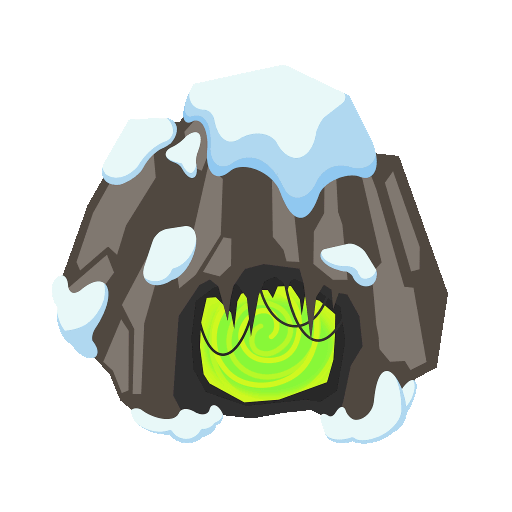
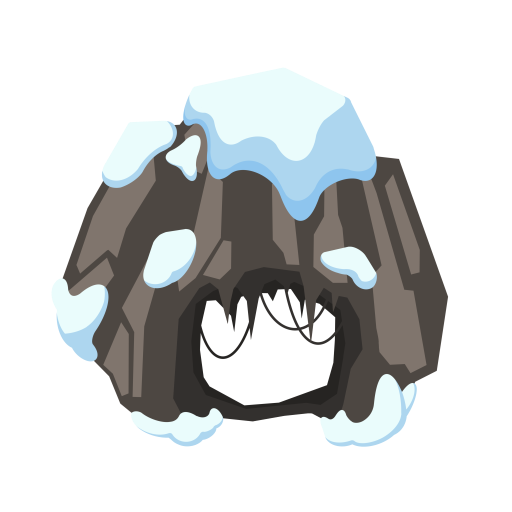
Reworking cave drawing, adding more controls
- Reworking cave drawing so that the cave shell and cave portal are different textures. Now, the cave shell is tinted at night while the portal never tints
- When the cave hasn't been interacted with, the portal whirls and after interaction, it stops animating
- ZZZ now appears to indicate E is enter button
- Optimized SceneModel to only store references to interactable caves and trees
- Integrated WASD and changed cave interaction to E

diff --git a/core/src/edu/cornell/gdiac/physics/SceneModel.java b/core/src/edu/cornell/gdiac/physics/SceneModel.java
@@ -37,7 +37,6 @@ import edu.cornell.gdiac.physics.shadows.ShadowModel;
 import edu.cornell.gdiac.physics.objects.Tree;
 import edu.cornell.gdiac.util.FilmStrip;
 import edu.cornell.gdiac.util.PooledList;
-import java.util.Arrays;
 import java.util.Comparator;
 import java.util.LinkedList;
 
@@ -63,6 +62,10 @@ public class SceneModel extends WorldController implements ContactListener {
     private final TextureRegion[] objectTextures = new TextureRegion[9];
     /** Texture asset for the cave in the polar map */
     private TextureRegion polarCaveTexture;
+    /** Texture asset for the portal in the polar map */
+    private TextureRegion polarPortalTexture;
+    /** Texture asset for the ZZZ fully realized in the polar map */
+    private TextureRegion polarZZZTexture;
     /** Texture asset for the ice in the polar map (moveable) */
     private TextureRegion polarIceTexture;
     /** Texture asset for a single white pixel (background) */
@@ -203,14 +206,14 @@ public class SceneModel extends WorldController implements ContactListener {
     private Enemy[] enemies;
     /** List of references to all AIControllers */
     private final LinkedList<AIController> controls = new LinkedList<>();
-    /** List of references to all trees */
-    private final PooledList<Tree> trees = new PooledList<>();
+    /** List of references to all interactable trees */
+    private final PooledList<Tree> interactableTrees = new PooledList<>();
     /** List of references to all decorations */
     private final PooledList<Decoration> decorations= new PooledList<>();
     /** List of references to decorations on the ground */
     private final PooledList<Decoration> groundDecorations = new PooledList<>();
-    /** List of references to all caves */
-    private final PooledList<Cave> caves = new PooledList<>();
+    /** List of references to all interactable caves */
+    private final PooledList<Cave> interactableCaves = new PooledList<>();
     /** List of references to dynamic objects (ursa + enemies) */
     private final PooledList<Obstacle> dynamicObjects = new PooledList<>();
 
@@ -329,6 +332,8 @@ public class SceneModel extends WorldController implements ContactListener {
         treeTextures[1] = new TextureRegion(directory.getEntry("polar:tree_no_snow",Texture.class));
 
         polarCaveTexture = new TextureRegion(directory.getEntry("polar:cave",Texture.class));
+        polarPortalTexture = new TextureRegion(directory.getEntry("polar:portal",Texture.class));
+        polarZZZTexture = new TextureRegion(directory.getEntry("polar:ZZZ",Texture.class));
         polarIceTexture = new TextureRegion(directory.getEntry("polar:ice",Texture.class));
 
         levelMusic = directory.getEntry("soundtracks:level_track", Music.class);
@@ -367,7 +372,7 @@ public class SceneModel extends WorldController implements ContactListener {
         TextureRegion treeShakeAnimation = new TextureRegion(directory.getEntry("polar:tree_shake_animation", Texture.class));
         treeShakeFilm = new FilmStrip(treeShakeAnimation.getTexture(), 2, 8);
 
-        TextureRegion cavePortalAnimation = new TextureRegion(directory.getEntry("polar:cave_animation", Texture.class));
+        TextureRegion cavePortalAnimation = new TextureRegion(directory.getEntry("polar:cave_portal_animation", Texture.class));
         cavePortalFilm = new FilmStrip(cavePortalAnimation.getTexture(), 2, 8);
         TextureRegion caveSleepAnimation = new TextureRegion(directory.getEntry("polar:cave_sleep_animation", Texture.class));
         caveZZZFilm = new FilmStrip(caveSleepAnimation.getTexture(), 2, 8);
@@ -459,6 +464,7 @@ public class SceneModel extends WorldController implements ContactListener {
         currCaveRotation = 0;
         interactedCave = null;
         caveZZZIndex = 0;
+        caveZZZFilm.setFrame(caveZZZIndex);
 
         controls.clear();
 
@@ -648,6 +654,9 @@ public class SceneModel extends WorldController implements ContactListener {
         if(currentFrame % cavePortalAnimBuffer == 0) {
             cavePortalIndex = (cavePortalIndex + 1) % 11;
         }
+        for(Cave cave: interactableCaves) {
+            cave.setPortalTexture(cavePortalFilm);
+        }
     }
 
     private void animateSmolUrsa() {
@@ -704,6 +713,7 @@ public class SceneModel extends WorldController implements ContactListener {
         }
         shadowController.update(backgroundColor);
 
+        animateCaves();
         // If the time is fast forwarding
         if(isTimeSkipping) {
             // Stop Ursa
@@ -720,14 +730,14 @@ public class SceneModel extends WorldController implements ContactListener {
             // Rotate the shadows over fastForwardDuration update loops
             int caveZZZAnimBuffer = 8;
 
-            int fastForwardDuration = (caveZZZAnimBuffer * 9 + caveZZZAnimBuffer - 1) + walkingDuration;
+            int fastForwardDuration = (caveZZZAnimBuffer * 9) + walkingDuration;
             if((currentFrame - timeBeganSkippingFrame) % fastForwardDuration == 0) {
                 isTimeSkipping = false;
                 ursa.resumeDrawing();
-                interactedCave.setIsUrsaSleeping(false);
+                interactedCave.setPortalTexture(polarPortalTexture);
                 caveZZZIndex = 0;
+                interactableCaves.remove(interactedCave);
             } else {
-
                 shadowController.animateFastForward(currentFrame - timeBeganSkippingFrame - walkingDuration + 1,
                         fastForwardDuration - walkingDuration);
 
@@ -745,13 +755,12 @@ public class SceneModel extends WorldController implements ContactListener {
         float yVal = InputController.getInstance().getVertical() * ursa.getForce();
         ursa.setMovement(xVal,yVal);
 
-        checkForInteraction();
+        checkForTreeInteraction();
 
         // Animates the game objects
         animatePlayerModel();
         animateEnemies();
         animateTree();
-        animateCaves();
         animateSmolUrsa();
 
         boolean alerted = false;
@@ -805,36 +814,40 @@ public class SceneModel extends WorldController implements ContactListener {
      *  Find the closest interactable obstacle among caves and trees.
      *  Then, shake the tree or fast forward the time if applicable.
      */
-    public void checkForInteraction() {
-        float treeInteractionRange = 7;
-        PolygonObstacle closestInteractableObstacle = null;
+    public void checkForTreeInteraction() {
+        float treeInteractionRange = 5;
+        Tree closestInteractableTree = null;
+        Cave closestInteractableCave = null;
         float minDistance = 1000;
         float tempDistance;
-        for(Tree tree: trees) {
+        for(Tree tree: interactableTrees) {
             tempDistance = ursa.getPosition().dst(tree.getPosition());
-            if (tree.canShake() && tempDistance < treeInteractionRange && (closestInteractableObstacle == null || tempDistance < minDistance)) {
-                closestInteractableObstacle = tree;
+            System.out.println(tempDistance);
+            if (tree.canShake() && tempDistance < treeInteractionRange && (closestInteractableTree == null || tempDistance < minDistance)) {
+                closestInteractableTree = tree;
                 minDistance = tempDistance;
             }
         }
-        for(Cave cave: caves) {
+        for(Cave cave: interactableCaves) {
             float caveInteractionRange = 3;
             tempDistance = ursa.getPosition().dst(cave.getPosition());
-            if (cave.canInteract() && tempDistance < caveInteractionRange && (closestInteractableObstacle == null || tempDistance < minDistance)) {
-                closestInteractableObstacle = cave;
+            if (cave.canInteract() && tempDistance < caveInteractionRange && (closestInteractableCave == null || tempDistance < minDistance)) {
+                closestInteractableCave = cave;
                 minDistance = tempDistance;
+            }
+        }
+
+        // Take cave entering as a priority
+        if(InputController.getInstance().didEnterCave()) {
+            if(closestInteractableCave != null) {
+                beginCaveFastForward(closestInteractableCave);
+                return;
             }
         }
         if(InputController.getInstance().didInteract()) {
-            System.out.println("Attempting to interact. ");
-            if (closestInteractableObstacle != null) {
-                if (closestInteractableObstacle instanceof Tree) {
-                    shakeTree((Tree) closestInteractableObstacle);
-                    System.out.println("Shaking tree. ");
-                } else {
-                    beginCaveFastForward((Cave) closestInteractableObstacle);
-                    System.out.println("Fast forwarding time. ");
-                }
+            if(closestInteractableTree != null) {
+                shakeTree(closestInteractableTree);
+                interactableTrees.remove(closestInteractableTree);
             }
         }
     }
@@ -869,9 +882,8 @@ public class SceneModel extends WorldController implements ContactListener {
         if(!cave.canInteract()) {
             return;
         }
-        //cave.interact();
+        cave.interact();
         walkingDuration = (int) ((cave.getPosition().dst(ursa.getPosition()) * 10));
-        System.out.println(Arrays.toString(caveRotations));
         if(currCaveRotation < caveRotations.length - 1) {
             shadowController.forwardTimeRatio(caveRotations[currCaveRotation + 1] - caveRotations[currCaveRotation]);
             currCaveRotation++;
@@ -881,11 +893,12 @@ public class SceneModel extends WorldController implements ContactListener {
         isTimeSkipping = true;
         timeBeganSkippingFrame = currentFrame;
         interactedCave = cave;
+        interactedCave.setZZZTexture(caveZZZFilm);
+        // Record where Ursa started to smoothly walk her to cave
         ursaStartingPosition = new Vector2(ursa.getPosition());
         ursaWalkAnimIndex = 0;
         ursaIdleAnimIndex = 0;
         ursa.setIsFacingRight(cave.getX() > ursa.getX());
-        interactedCave.setIsUrsaSleeping(true);
     }
 
     /**
@@ -1043,11 +1056,12 @@ public class SceneModel extends WorldController implements ContactListener {
     public void postDraw(float dt) {
         super.postDraw(dt);
 
-        // Draws the day/night UI element
-        for(Cave cave: caves) {
+        // Draw the ZZZ UI
+        for(Cave cave: interactableCaves) {
             cave.postDraw(canvas);
         }
 
+        // Draws the day/night UI element
         float uiDrawScale = 0.08f;
         canvas.draw(dayNightUITexture, Color.WHITE, dayNightUITexture.getRegionWidth() / 2f, dayNightUITexture.getRegionHeight() / 2f, canvas.getCameraX(), canvas.getCameraY() + canvas.getHeight() / 2f, uiRotationAngle,
                 uiDrawScale, uiDrawScale);
@@ -1408,13 +1422,15 @@ public class SceneModel extends WorldController implements ContactListener {
             Tree tree = new Tree(getVertices(treeConstants),drawToScreenCoordinates(x),drawToScreenCoordinates(y), yOffset, textureScale);
             tree.setDrawScale(scale);
             tree.setTexture(treeTextures[treeIndex - firstTreeIndex]);
+            tree.setName("tree" + i);
+            // If the tree has no snow
             if(treeIndex - firstTreeIndex == 1) {
                 tree.putOnShakeCooldown();
+            } else {
+                interactableTrees.add(tree);
             }
-            tree.setName("tree" + i);
 
             addObject(tree);
-            trees.add(tree);
 
             makeShadow(treeConstants,tree);
 
@@ -1444,13 +1460,13 @@ public class SceneModel extends WorldController implements ContactListener {
             Vector2 caveBubblePos = new Vector2(drawToScreenCoordinates(caveConstants.get("bubbleX").asFloat()), drawToScreenCoordinates(caveConstants.get("bubbleY").asFloat()));
 
             Cave obj = new Cave(getVertices(caveConstants), x, y, yOffset,textureScale, caveBubblePos);
-            obj.setZZZTexture(caveZZZFilm);
+            obj.setZZZTexture(polarZZZTexture);
             obj.setDrawScale(scale);
-            obj.setTexture(cavePortalFilm);
+            obj.setTexture(polarCaveTexture);
             obj.setName("cave" + i);
 
             addObject(obj);
-            caves.add(obj);
+            interactableCaves.add(obj);
 
             makeShadow(caveConstants,obj);
 

diff --git a/core/src/edu/cornell/gdiac/physics/InputController.java b/core/src/edu/cornell/gdiac/physics/InputController.java
@@ -14,6 +14,7 @@
 package edu.cornell.gdiac.physics;
 
 import com.badlogic.gdx.*;
+import com.badlogic.gdx.Input.Keys;
 import com.badlogic.gdx.math.*;
 
 import com.badlogic.gdx.utils.Array;
@@ -73,6 +74,8 @@ public class InputController {
 	private boolean exitPrevious;
 
 	private boolean interactPressed;
+	private boolean caveEnterPressed;
+	private boolean caveEnterPrevious;
 	private boolean interactPrevious;
 	
 	/** How much did we move horizontally? */
@@ -180,6 +183,10 @@ public class InputController {
 		return interactPressed && !interactPrevious;
 	}
 
+	public boolean didEnterCave() {
+		return caveEnterPressed & !caveEnterPrevious;
+	}
+
 	/**
 	 * Returns true if the player wants to go to the next level.
 	 *
@@ -255,6 +262,7 @@ public class InputController {
 		nextPrevious = nextPressed;
 		prevPrevious = prevPressed;
 		interactPrevious = interactPressed;
+		caveEnterPrevious = caveEnterPressed;
 		
 		// Check to see if a GamePad is connected
 		if (xbox != null && xbox.isConnected()) {
@@ -316,33 +324,34 @@ public class InputController {
 	private void readKeyboard(Rectangle bounds, Vector2 scale, boolean secondary) {
 		// Give priority to gamepad results
 		resetPressed = (secondary && resetPressed) || (Gdx.input.isKeyPressed(Input.Keys.R));
-		debugPressed = (secondary && debugPressed) || (Gdx.input.isKeyPressed(Input.Keys.D));
+		debugPressed = (secondary && debugPressed) || (Gdx.input.isKeyPressed(Keys.GRAVE));
 		primePressed = (secondary && primePressed) || (Gdx.input.isKeyPressed(Input.Keys.UP));
 		secondPressed = (secondary && secondPressed) || (Gdx.input.isKeyPressed(Input.Keys.SPACE));
 		prevPressed = (secondary && prevPressed) || (Gdx.input.isKeyPressed(Input.Keys.P));
 		nextPressed = (secondary && nextPressed) || (Gdx.input.isKeyPressed(Input.Keys.N));
 		exitPressed  = (secondary && exitPressed) || (Gdx.input.isKeyPressed(Input.Keys.ESCAPE));
 		interactPressed = (secondPressed && interactPressed) || (Gdx.input.isKeyPressed(Input.Keys.F));
+		caveEnterPressed = Gdx.input.isKeyPressed(Input.Keys.E);
 		
 		// Directional controls
 		horizontal = (secondary ? horizontal : 0.0f);
-		if (Gdx.input.isKeyPressed(Input.Keys.RIGHT)) {
+		if (Gdx.input.isKeyPressed(Input.Keys.RIGHT) || (Gdx.input.isKeyPressed(Input.Keys.D))) {
 			horizontal += 1.0f;
 		}
-		if (Gdx.input.isKeyPressed(Input.Keys.LEFT)) {
+		if (Gdx.input.isKeyPressed(Input.Keys.LEFT) || (Gdx.input.isKeyPressed(Input.Keys.A))) {
 			horizontal -= 1.0f;
 		}
 		
 		vertical = (secondary ? vertical : 0.0f);
-		if (Gdx.input.isKeyPressed(Input.Keys.UP)) {
+		if (Gdx.input.isKeyPressed(Input.Keys.UP) || (Gdx.input.isKeyPressed(Input.Keys.W))) {
 			vertical += 1.0f;
 		}
-		if (Gdx.input.isKeyPressed(Input.Keys.DOWN)) {
+		if (Gdx.input.isKeyPressed(Input.Keys.DOWN) || (Gdx.input.isKeyPressed(Input.Keys.S))) {
 			vertical -= 1.0f;
 		}
 		
 		// Mouse results
-        tertiaryPressed = Gdx.input.isButtonPressed(Input.Buttons.LEFT);
+        	tertiaryPressed = Gdx.input.isButtonPressed(Input.Buttons.LEFT);
 		crosshair.set(Gdx.input.getX(), Gdx.input.getY());
 		crosshair.scl(1/scale.x,-1/scale.y);
 		crosshair.y += bounds.height;

diff --git a/core/src/edu/cornell/gdiac/physics/objects/Cave.java b/core/src/edu/cornell/gdiac/physics/objects/Cave.java
@@ -1,6 +1,7 @@
 package edu.cornell.gdiac.physics.objects;
 
 import com.badlogic.gdx.graphics.Color;
+import com.badlogic.gdx.graphics.Texture;
 import com.badlogic.gdx.graphics.g2d.TextureRegion;
 import com.badlogic.gdx.math.Affine2;
 import com.badlogic.gdx.math.Vector2;
@@ -13,14 +14,16 @@ public class Cave extends PolygonObstacle {
     private float textureScale;
     private Vector2 ZZZposition;
     private TextureRegion ZZZTexture;
-    private boolean isUrsaSleeping;
+    private TextureRegion portalTexture;
+    private float yOffset;
 
-    public Cave(float[] points, float x, float y,float yOffset, float textureScale, Vector2 ZZZpos) {
+    public Cave(float[] points, float x, float y, float yOffset, float textureScale, Vector2 ZZZpos) {
         super(points, x, y, yOffset, textureScale);
         setBodyType(BodyDef.BodyType.StaticBody);
         canInteract = true;
         this.textureScale = textureScale;
         this.ZZZposition = ZZZpos;
+        this.yOffset = yOffset;
     }
 
     public boolean canInteract() {
@@ -31,18 +34,24 @@ public class Cave extends PolygonObstacle {
         canInteract = false;
     }
 
-    public void setIsUrsaSleeping(boolean b) {
-        isUrsaSleeping = b;
-    }
-
     public void setZZZTexture(TextureRegion texture) {
         ZZZTexture = texture;
     }
 
-    public void postDraw(GameCanvas canvas) {
-        if(!isUrsaSleeping) {
-            return;
+    public void setPortalTexture(TextureRegion texture) {
+        portalTexture = texture;
+    }
+    public void draw(GameCanvas canvas) {
+        if (region != null) {
+            Affine2 affine = new Affine2()
+                    .translate(getX() * drawScale.x, getY()* drawScale.y)
+                    .scale(textureScale, textureScale)
+                    ;
+            canvas.draw(portalTexture, Color.WHITE, texture.getRegionWidth() / 2f, yOffset, affine);
+            canvas.draw(texture, tint, texture.getRegionWidth() / 2f, yOffset, affine);
         }
+    }
+    public void postDraw(GameCanvas canvas) {
         Affine2 affine = new Affine2()
                 .translate((getX() + ZZZposition.x) * drawScale.x, (getY() + ZZZposition.y) * drawScale.y )
                 .scale(textureScale, textureScale)
